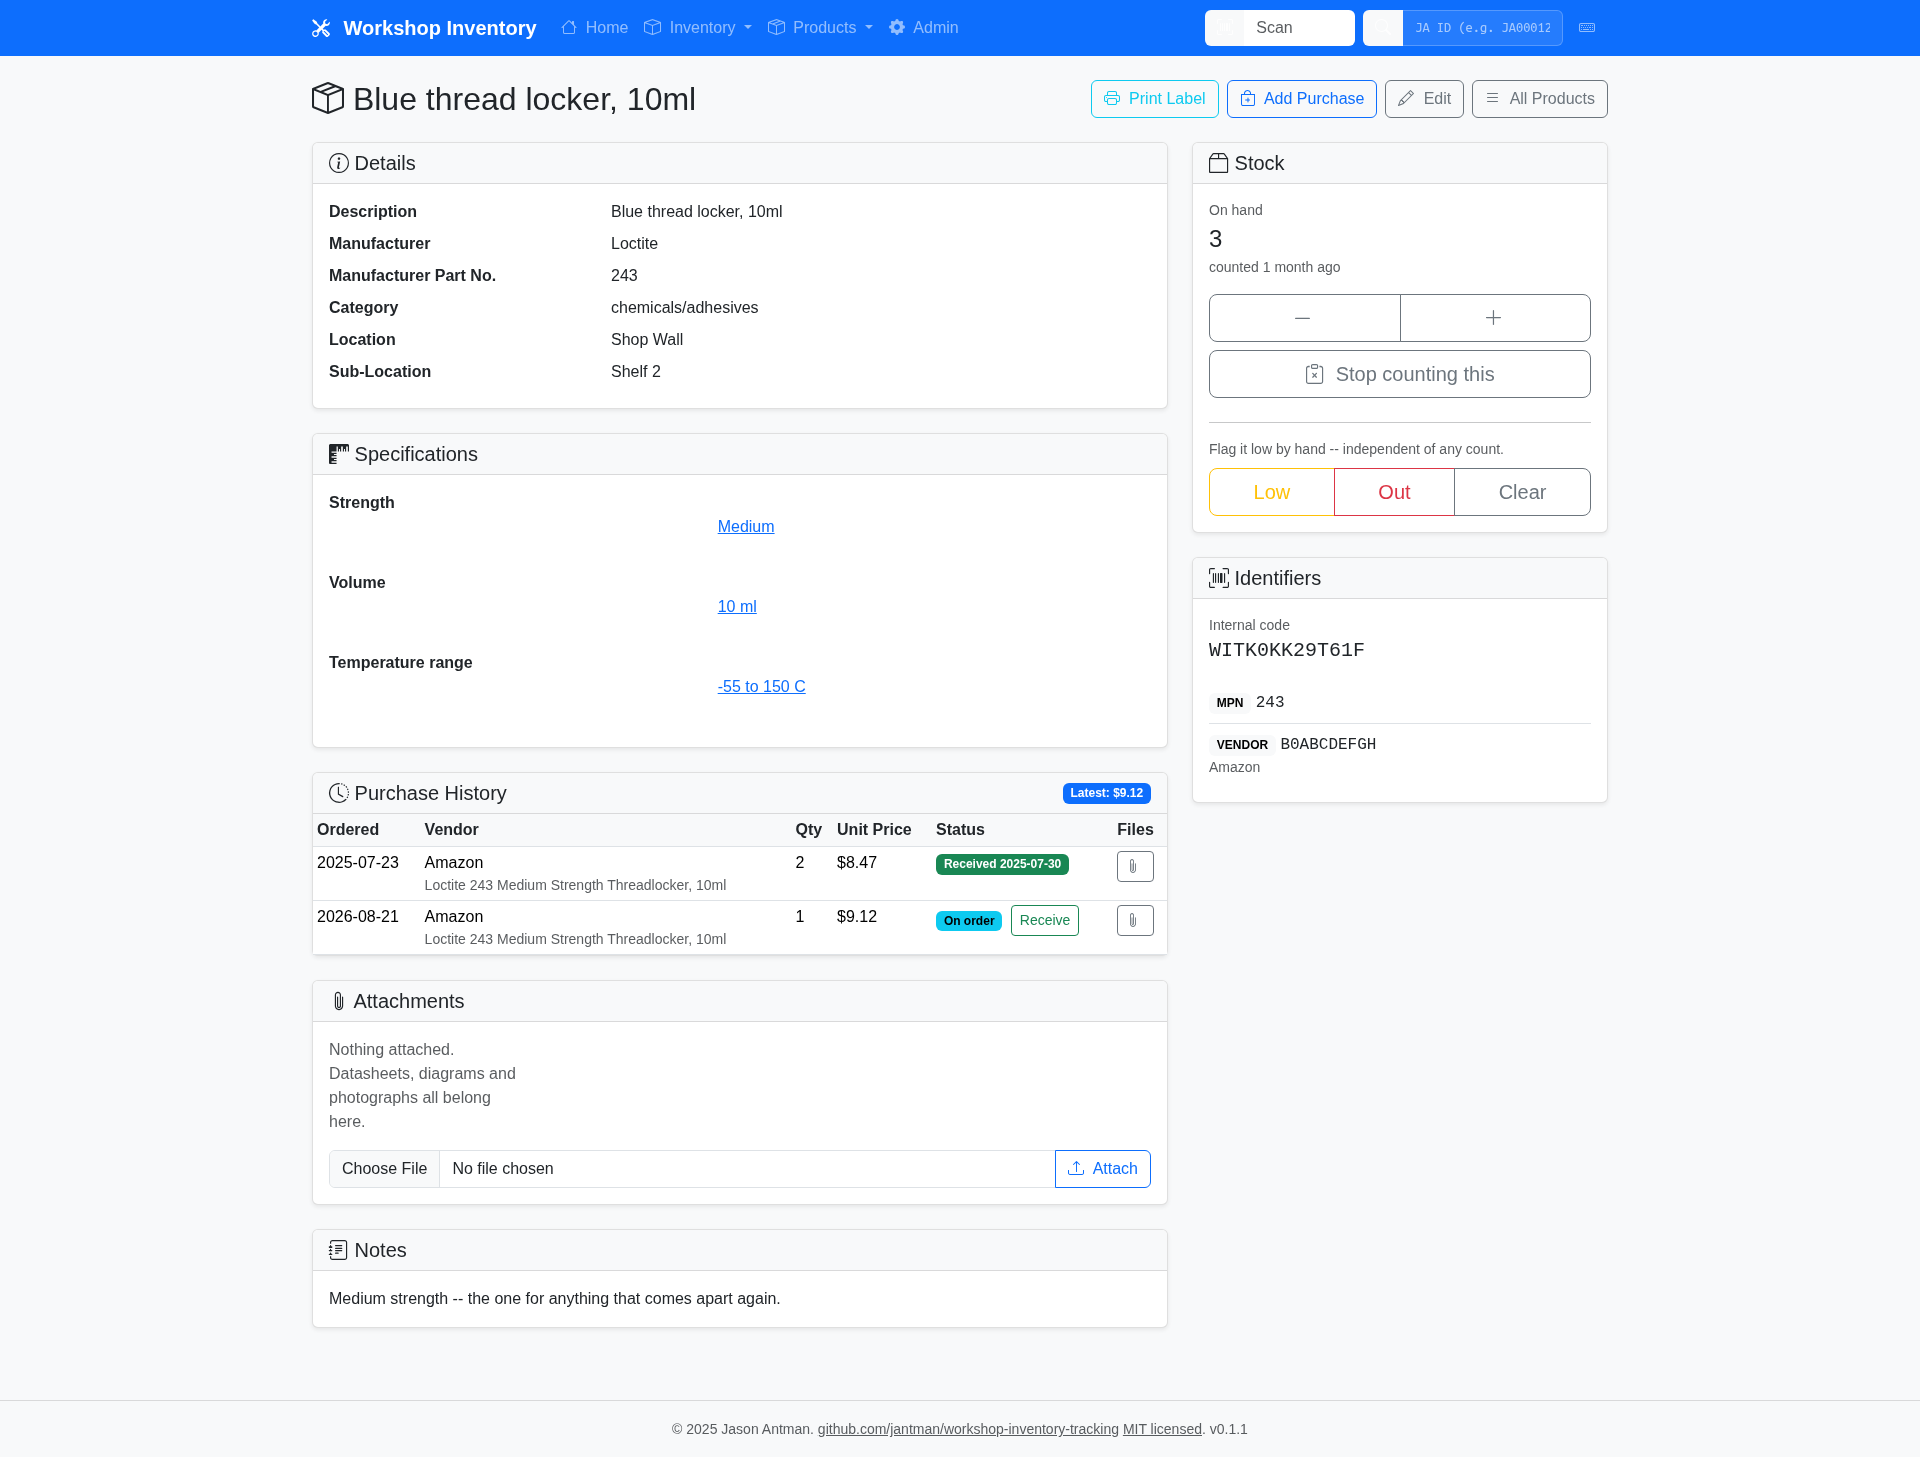
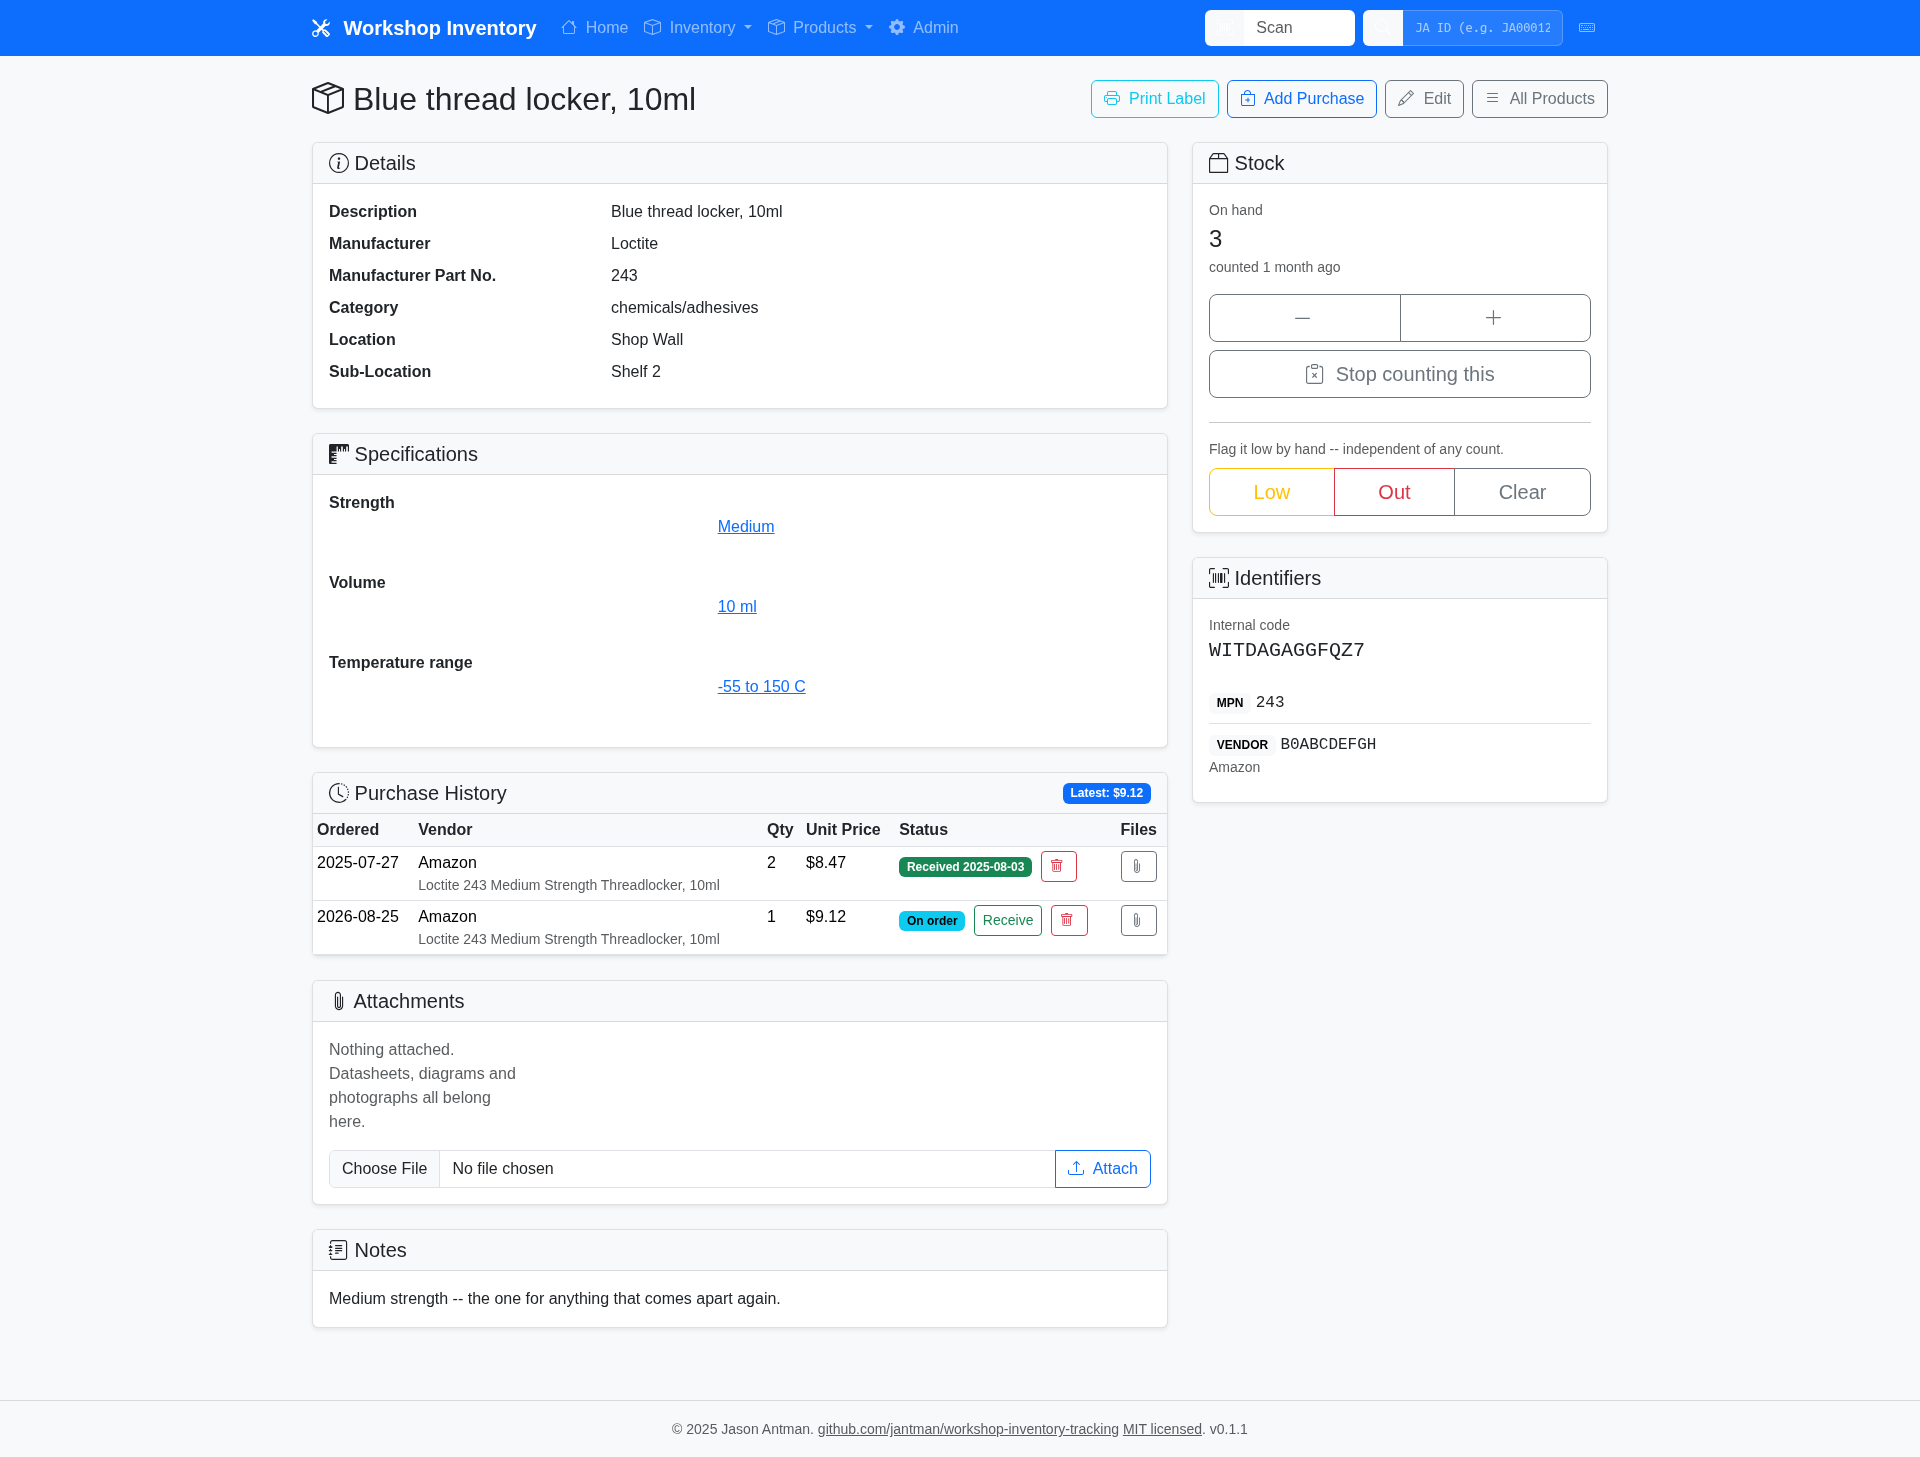
docs(purchases): document removing a purchase recorded in error
Adds the user-manual section for feature 032 and regenerates the one
screenshot the change actually affects.

The section leads with the two things the operator cannot see from the row
-- attached files go with the purchase, and the counted quantity does not
move -- because those are the two decisions issue #130 asked to be made
deliberately, and a manual that does not state them leaves the operator to
discover them.

Only product_detail.png is committed. All eleven screenshots differ after a
regeneration run, but a pixel diff puts ten of them at 0.09%-4.6% of font
rasterization noise in regions this change does not touch; product_detail's
diff is the purchase-history table, which is the change. metadata.json is
left alone for the same reason -- it is pure timestamps. Commit 9cb389e set
this precedent, committing exactly one screenshot for a one-page change.

Also corrects a claim in tasks.md inherited from the plan: screenshots.yml
is an informational reminder, not a merge gate. Regenerating in CI could
never match, because CI rasterizes fonts differently than the machine the
images were committed from -- that check was removed in issue #77. The
constitution still says "CI blocks merge on stale screenshots", which is now
out of date.

nox -s screenshots_verify: 21 screenshots, all valid PNG, all under 500KB.

Claude-Session: https://claude.ai/code/session_01JbRSEEPmTCQuPkTx8fJfkP

Changed region(s): [[0.2188, 0.5559, 0.375, 0.6486], [0.4062, 0.5559, 0.5625, 0.6486], [0.6562, 0.4324, 0.7188, 0.4633]]

diff --git a/docs/user-manual.md b/docs/user-manual.md
@@ -25,6 +25,7 @@
 11. [Scanning Products](#scanning-products)
     - [Distributor Labels](#distributor-labels)
 12. [Recording Purchases](#recording-purchases)
+    - [Removing a Purchase Recorded in Error](#removing-a-purchase-recorded-in-error)
 13. [Which Vendors Are Supported](#which-vendors-are-supported)
 14. [Capturing an Order When You Place It](#capturing-an-order-when-you-place-it)
     - [Amazon Orders](#amazon-orders)
@@ -1016,6 +1017,49 @@ in step with it.
 Buying the same thing again adds a second purchase to the same product. It does
 not create a duplicate. The product page shows the whole history oldest-first
 with the most recent price called out.
+
+### Removing a Purchase Recorded in Error
+
+Sometimes a purchase gets written that should not have been -- a duplicate, a
+line captured twice by two different routes, an order you captured from the
+wrong page. The **trash button** on the row removes it.
+
+You can reach it from two places, and they behave identically:
+
+- the **Purchase History** table on the product page, on every row; and
+- the **order screen** (Products -> Captured Orders -> the order), on every
+  line, whether it has arrived or not.
+
+Either one opens a confirmation page that names the purchase -- vendor, order
+date, quantity, price and order number -- so you can tell two near-identical
+rows apart before committing. It also tells you two things the row itself does
+not show:
+
+**Attached files go with it.** Anything attached to that *purchase*, such as a
+saved listing or a receipt, is deleted too, and the page says how many. Files
+attached to the *product*, such as a datasheet, are untouched.
+
+**The counted quantity does not change.** Deleting a purchase you had marked
+received does not put the count back down, and it does not clear a Low flag you
+set by hand or change the date the product was last counted. This is deliberate:
+receiving history and what is in the drawer are two separate claims, and nothing
+records whether a given receipt ever moved a count in the first place. If the
+count does need correcting, use the **+** and **-** controls on the product page
+-- that way the "counted" date reflects a real look in the drawer.
+
+Deleting is permanent. There is no undo and no trash to recover from, which is
+why there is a confirmation.
+
+Two more things worth knowing:
+
+- **The product survives.** Deleting every purchase of a product leaves the
+  product, its identifiers, specifications, photos and datasheets exactly as
+  they were. This is not a way to delete a product.
+- **The order survives too, or stops existing.** An order is only ever worked
+  out from the purchases carrying its number, so a deleted line simply leaves
+  it. Delete every line and that order number reads "nothing captured under this
+  order" again -- and if you capture it afresh, the deleted line is offered
+  again, because there is no record of your having refused it.
 
 ## Which Vendors Are Supported
 

diff --git a/specs/032-delete-purchase/tasks.md b/specs/032-delete-purchase/tasks.md
@@ -114,9 +114,9 @@ Both stories work independently.
 **Purpose**: The two CI gates this change trips, the documentation, and the manual pass the issue
 is blocking.
 
-- [ ] T023 [P] Document removing a purchase recorded in error in `docs/user-manual.md`, near the purchase-history and captured-orders sections: where the control is on both screens, that attachments go with it, and that the counted quantity does not move and is adjusted by hand
-- [ ] T024 Regenerate the screenshots with `PATH="$HOME/.pyenv/versions/3.13.12/bin:$PATH" venv/bin/nox -s screenshots_headless` — required because `app/templates/**` changed, and CI blocks on stale screenshots. **Inspect what actually differs before committing**: screenshots churn on every run from two generators, so commit the images this change really altered rather than everything the run touched
-- [ ] T025 Run `PATH="$HOME/.pyenv/versions/3.13.12/bin:$PATH" venv/bin/nox -s screenshots_verify` and confirm every image is a valid PNG, RGB/RGBA and under 500KB
+- [X] T023 [P] Document removing a purchase recorded in error in `docs/user-manual.md`, near the purchase-history and captured-orders sections: where the control is on both screens, that attachments go with it, and that the counted quantity does not move and is adjusted by hand
+- [X] T024 Regenerate the screenshots with `PATH="$HOME/.pyenv/versions/3.13.12/bin:$PATH" venv/bin/nox -s screenshots_headless` — required because `app/templates/**` changed. (The `screenshots.yml` workflow is an informational *reminder*, not a block: regenerating in CI could never match, because CI rasterizes fonts differently — see issue #77. The constitution's "CI blocks merge on stale screenshots" is out of date.) **Inspect what actually differs before committing**: screenshots churn on every run from two generators, so commit the images this change really altered rather than everything the run touched
+- [X] T025 Run `PATH="$HOME/.pyenv/versions/3.13.12/bin:$PATH" venv/bin/nox -s screenshots_verify` and confirm every image is a valid PNG, RGB/RGBA and under 500KB
 - [ ] T026 Run the full E2E suite **detached** — `PATH="$HOME/.pyenv/versions/3.13.12/bin:$PATH" nohup venv/bin/nox -s e2e > /tmp/e2e.log 2>&1 &` — and poll. It is ~13m45s warm against a 15-minute allowance and most agent bash tools cap at 10 minutes, so running it in the foreground produces a false timeout on a passing run. Budget 20 minutes cold
 - [ ] T027 Confirm `git status` is clean after T026. A test session that leaves the working tree dirty is a defect (Constitution IV) — `nox -s e2e` selects `-m "e2e and not screenshot"` precisely so it does not write into `docs/images/screenshots/`
 - [ ] T028 Walk the eight manual scenarios in [quickstart.md](./quickstart.md) against a running app (`venv/bin/python run.py`), recording the outcome of each in `specs/032-delete-purchase/verification.md`
